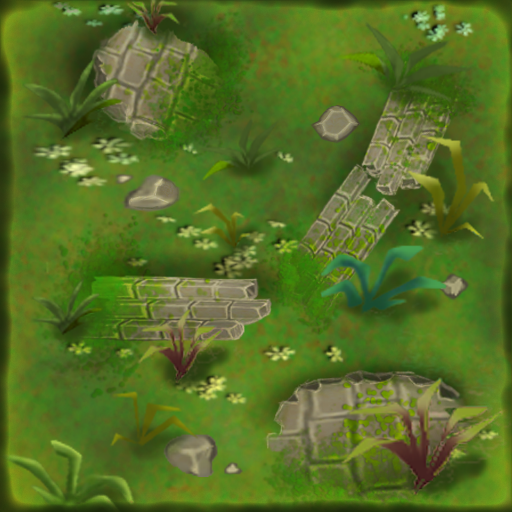
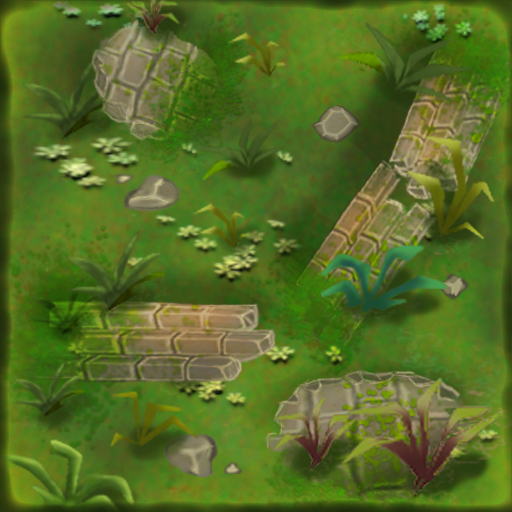
Over Black done V1

diff --git a/Assets/Scripts/Game/SquareBehaviour.cs b/Assets/Scripts/Game/SquareBehaviour.cs
@@ -9,6 +9,7 @@ public class SquareBehaviour : MonoBehaviour
 
 	public bool m_isPointed= false;
 	public bool m_isOccuped = false;
+
 	public GameObject m_tokken;
 	private CardHolderBehaviour m_cardHolder;
 	public int m_gridX;
@@ -25,6 +26,14 @@ public class SquareBehaviour : MonoBehaviour
 	public Material TiledPlaineOver;
 	public Material TiledRuinOver;
 	public Material TiledSwampOver;
+
+	
+	
+	public Material TiledForestBlack;
+	public Material TiledMountainBlack;
+	public Material TiledPlaineBlack;
+	public Material TiledRuinBlack;
+	public Material TiledSwampBlack;
 
 	private GameObject Hand;
 
@@ -139,6 +148,34 @@ public class SquareBehaviour : MonoBehaviour
 		if (GetComponent<Renderer> ().material.ToString().Contains("TiledSwamp") ) 
 		{
 			this.GetComponent<Renderer>().material = TiledSwamp;
+		}
+	}
+
+	public void BlackOn()
+	{
+		if (GetComponent<Renderer> ().material.ToString().Contains("TiledForest") ) 
+		{
+			this.GetComponent<Renderer>().material = TiledForestBlack;
+		}
+		
+		if (GetComponent<Renderer> ().material.ToString().Contains("TiledMoun") ) 
+		{
+			this.GetComponent<Renderer>().material = TiledMountainBlack;
+		}
+		
+		if (GetComponent<Renderer> ().material.ToString().Contains("TiledPlain") ) 
+		{
+			this.GetComponent<Renderer>().material = TiledPlaineBlack;
+		}
+		
+		if (GetComponent<Renderer> ().material.ToString().Contains("TiledRuin") ) 
+		{
+			this.GetComponent<Renderer>().material = TiledRuinBlack;
+		}
+		
+		if (GetComponent<Renderer> ().material.ToString().Contains("TiledSwamp") ) 
+		{
+			this.GetComponent<Renderer>().material = TiledSwampBlack;
 		}
 	}
 

diff --git a/Assets/Scripts/Game/BoardBehaviour.cs b/Assets/Scripts/Game/BoardBehaviour.cs
@@ -52,7 +52,7 @@ public class BoardBehaviour : MonoBehaviour
 	public GameObject m_panelTurn;
 	public GameObject m_panelTurnType;
 
-
+	private GameObject lastCubeDark;
 
 	#endregion
 	
@@ -103,6 +103,18 @@ public class BoardBehaviour : MonoBehaviour
 		scriptSquare.m_tokken = Tokken;	
 		
 		scriptCard.PlayCard();
+
+		if (m_player_Turn == false) 
+		{
+			if(lastCubeDark != null)
+			{
+				lastCubeDark.GetComponent<SquareBehaviour>().OverOff();
+			}
+
+			scriptSquare.BlackOn();
+
+			lastCubeDark = cube;
+		}
 
 		routineEndTurn ();
 	}
@@ -211,6 +223,13 @@ public class BoardBehaviour : MonoBehaviour
 			item.transform.SetParent(gameObject.transform);
 
 		}	
+	}
+
+	public void cleanAllCube ()
+	{
+
+
+
 	}
 	
 
